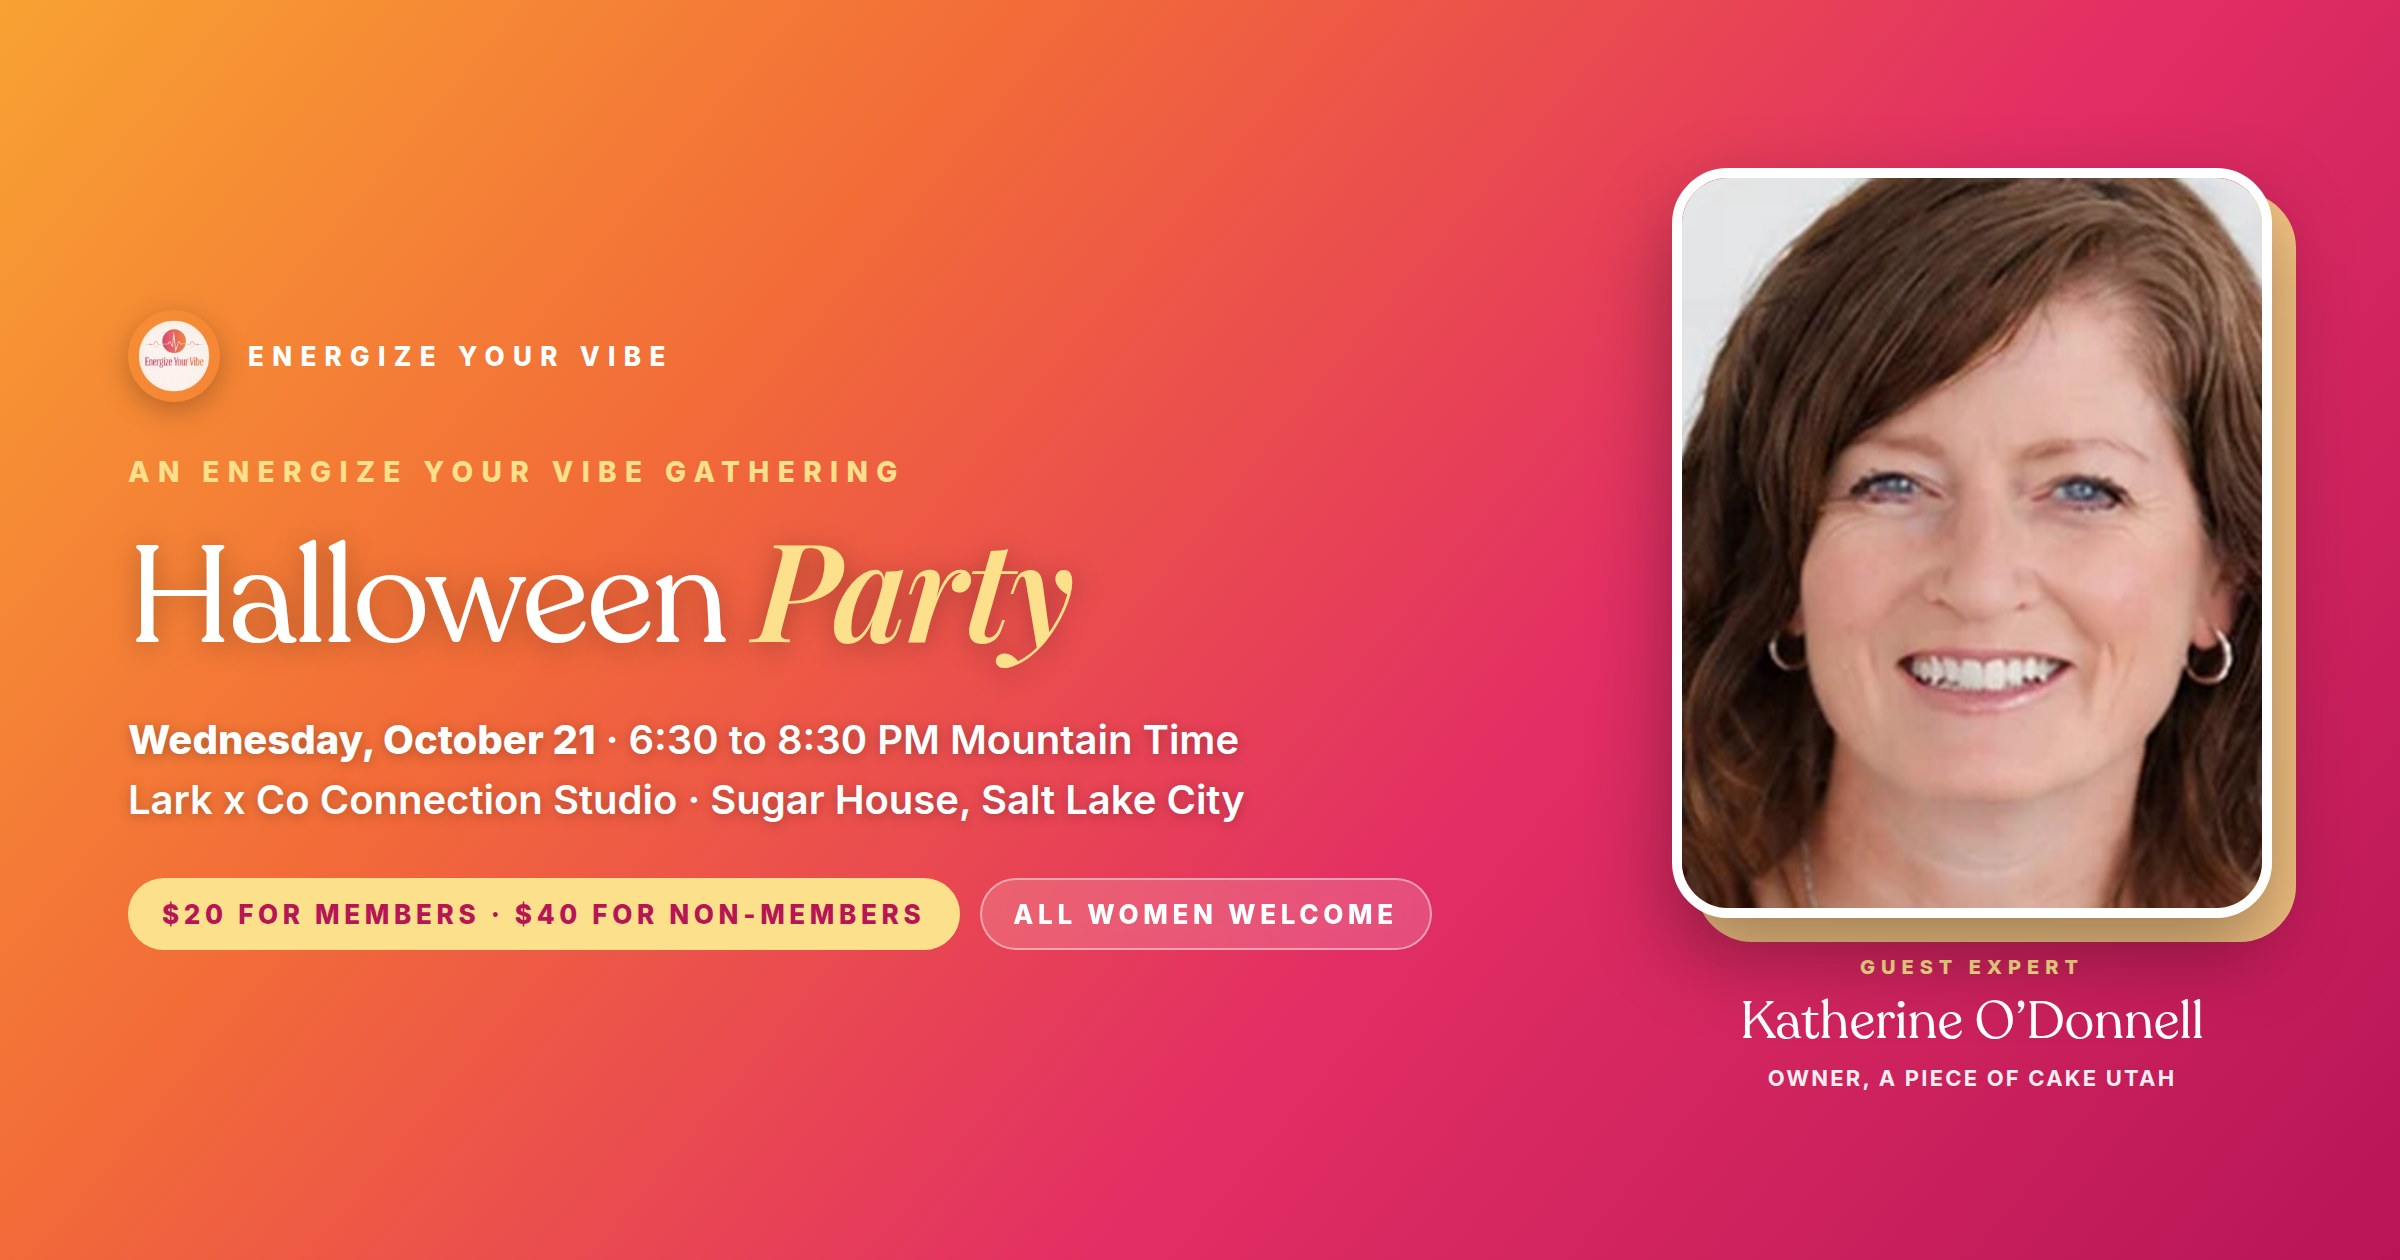
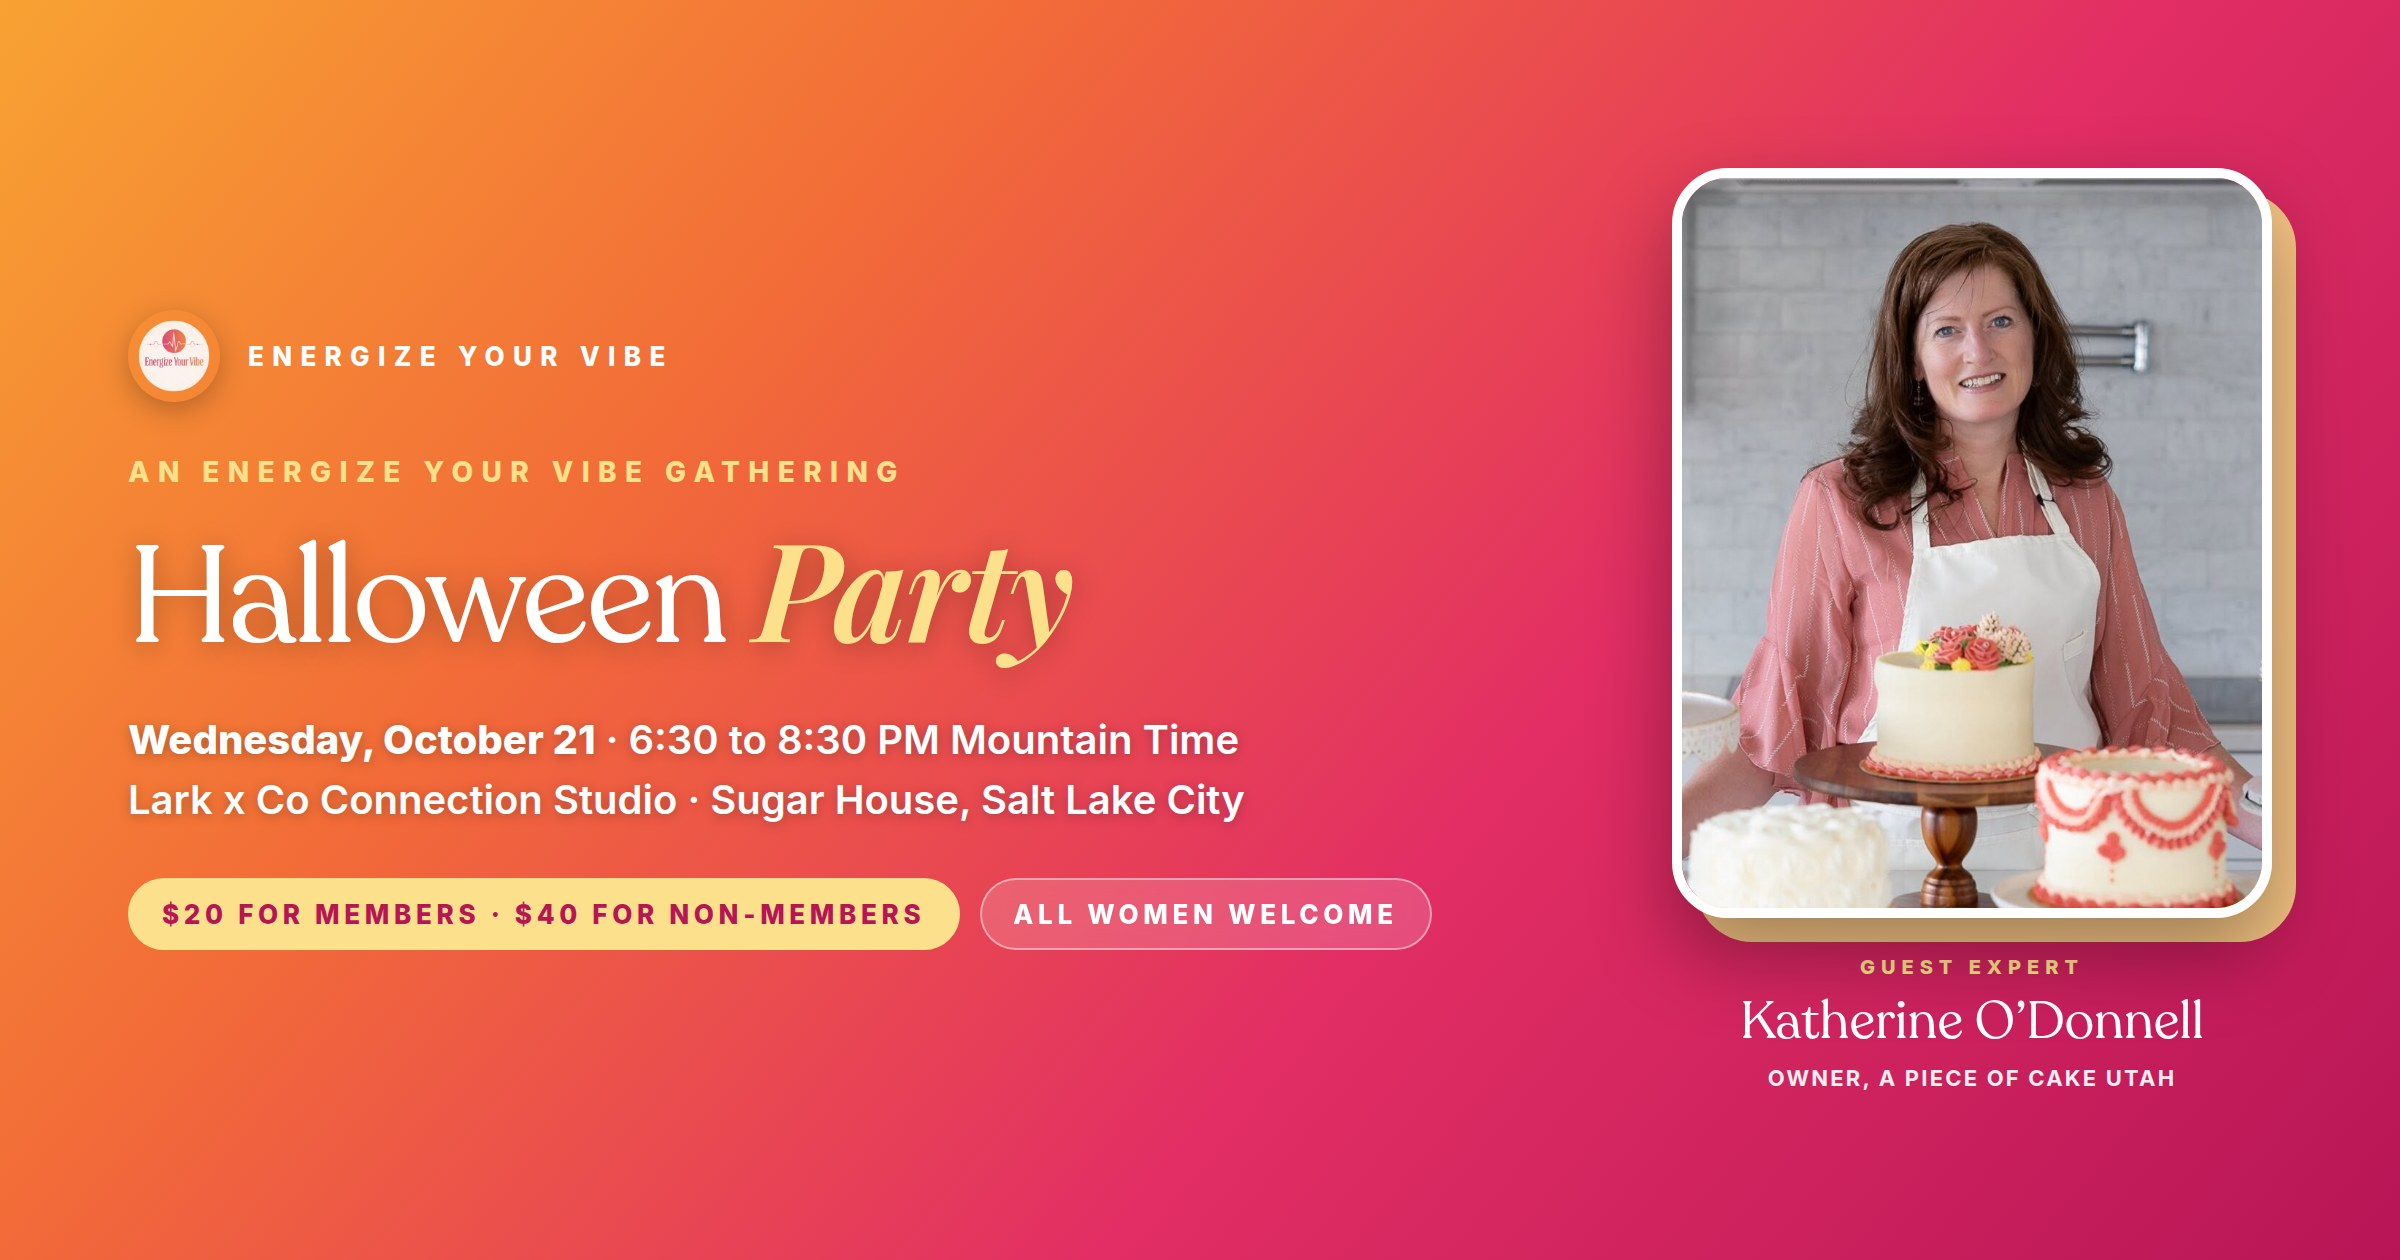
Use Katherine's kitchen photo on the Halloween Party page
Replaces the headshot cropped from the flyer with Katherine's own photo
(cropped 4:5 around her and her cakes) and regenerates the share image,
which shows it too.

Claude-Session: https://claude.ai/code/session_01TDMawEnYutrWJDW45Y5iHz

Changed region(s): [[0.6875, 0.1238, 0.9688, 0.7429]]

diff --git a/emails/event-registrations.md b/emails/event-registrations.md
@@ -163,9 +163,9 @@ group's subscribers (`phone` field / CSV export) for day-of texts.
 - Short link for flyers/texts: https://www.energizeyourvibe.com/halloween
 - Where: Lark x Co Connection Studio, 1603 Stratford Ave S, Salt Lake City,
   UT 84106
-- Guest expert: Katherine O'Donnell (Owner, A Piece of Cake Utah). Her
-  headshot is cropped from the flyer; swap in the original file at
-  `public/assets/katherine-odonnell.jpg` if Jenn can get it.
+- Guest expert: Katherine O'Donnell (Owner, A Piece of Cake Utah). Photo:
+  `public/assets/katherine-odonnell.jpg`, a 4:5 crop of her kitchen photo
+  with her cakes (re-run the share image script if it changes).
 - Price: members $20, non-members $40. The page also pitches the
   membership to non-members ("Members get $20 off this event...").
 - Capacity: 30 (Katherine's number to start)
